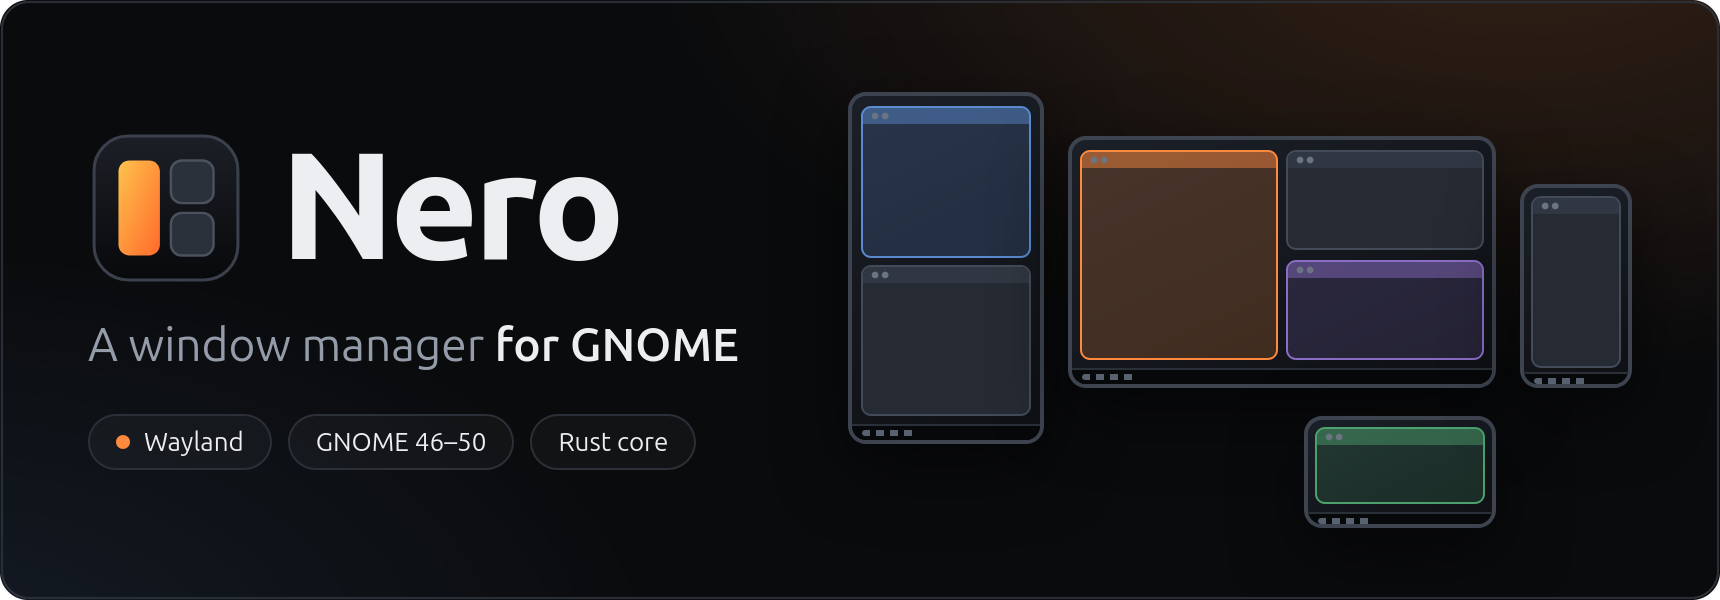
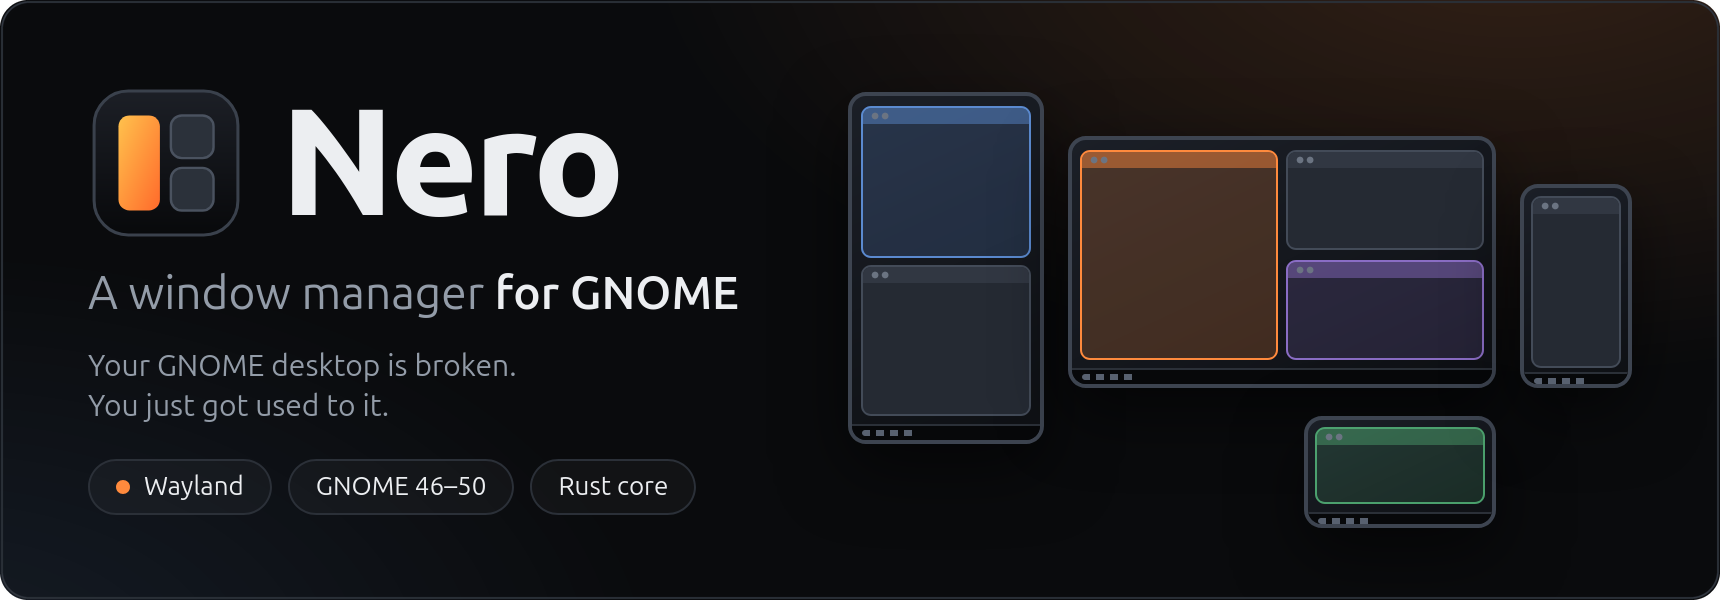
README layout: centred header, badges, link row, folding install blocks
The slides take their wording from the rewritten README. The README text
itself is unchanged; the title line moved into the header.

Changed region(s): [[0.0308, 0.15, 0.4314, 0.63], [0.0616, 0.66, 0.4006, 0.87]]

diff --git a/docs/src/tiling.html b/docs/src/tiling.html
@@ -15,15 +15,15 @@
 </style>
 <div class="slide">
   <div class="head"><img src="logo.svg" alt=""><b>Nero</b><span class="sep">/</span>tilingshell-patch<span class="no">Part 2 of 5</span></div>
-  <h2>Tiling Shell 18.0, <span>patched.</span></h2>
-  <div class="sub">Tile, drag and resize, and every other window stays where it is.</div>
+  <h2>Tiling that behaves <span>like you thought it did.</span></h2>
+  <div class="sub">A patch set for Tiling Shell 18.0. Your other windows are obstacles, not victims.</div>
   <div class="grid">
     <div class="f"><div class="mon"><div class="clip">
         <div class="tile" style="left:3%;top:6%;width:30%;height:80%"></div><div class="tile" style="left:67%;top:6%;width:30%;height:80%"></div>
         <div class="win" style="left:22%;top:20%;width:50%;height:58%"></div>
         <div class="win e" style="left:35%;top:6%;width:30%;height:80%"></div>
         <div class="tb"></div></div></div>
-      <div class="t">Exact placement</div><div class="d">A dropped window gets exactly that tile. Nothing is pushed aside.</div></div>
+      <div class="t">Drop a window, get that tile</div><div class="d">Not a rearrangement. Not a suggestion. That tile.</div></div>
     <div class="f"><div class="mon"><div class="clip">
         <div class="win" style="left:3%;top:6%;width:30%;height:80%"></div>
         <div class="win" style="left:35%;top:6%;width:62%;height:38%"></div>
@@ -39,7 +39,7 @@
         <div class="ar" style="left:31%;top:39%">←</div><div class="ar" style="left:66%;top:39%">→</div>
         <div class="ar" style="left:49.5%;top:8%">↑</div><div class="ar" style="left:49.5%;top:69%">↓</div>
         <div class="tb"></div></div></div>
-      <div class="t">Fill free space</div><div class="d">Grows until it meets other windows or the screen edge.</div></div>
+      <div class="t">Fill free space</div><div class="d">Super + right-click and it grows until it hits something.</div></div>
     <div class="f"><div class="mon"><div class="clip">
         <div class="win b" style="left:3%;top:6%;width:40%;height:80%"></div>
         <div class="win b" style="left:45%;top:6%;width:52%;height:39%"></div>
@@ -47,7 +47,7 @@
         <div class="bar" style="left:43.4%;top:6%;width:3px;height:80%"></div>
         <div class="ar" style="left:39%;top:38%;background:#0e1014;border-radius:9px;padding:1px 5px 3px">↔</div>
         <div class="tb"></div></div></div>
-      <div class="t"><kbd>Ctrl</kbd> Linked resize</div><div class="d">Every window touching that edge resizes with it.</div></div>
+      <div class="t"><kbd>Ctrl</kbd> Linked resize</div><div class="d">Every window touching that edge moves with it.</div></div>
     <div class="f"><div class="mon">
         <div class="ghost" style="left:74%;top:16%;width:38%;height:60%"></div>
         <div class="clip">
@@ -62,6 +62,6 @@
         <div class="bar" style="left:33%;top:55%;width:67%;height:3px"></div>
         <div class="ptr" style="left:60%;top:58%"></div>
         <div class="tb"></div></div></div>
-      <div class="t">Layout editor <kbd>Tab</kbd> <kbd>L</kbd></div><div class="d">Tab to the next monitor. L links one line across columns.</div></div>
+      <div class="t">Layout editor <kbd>Tab</kbd> <kbd>L</kbd></div><div class="d">Tab switches monitors. Finally. L links a line across columns.</div></div>
   </div>
 </div>

diff --git a/docs/src/parts.html b/docs/src/parts.html
@@ -17,24 +17,24 @@
 </style>
 <div class="slide">
   <div class="head"><img src="logo.svg" alt=""><b>Nero</b><span class="sep">/</span>overview</div>
-  <h2>Five parts. <span>One Rust core.</span></h2>
-  <div class="sub">Take one part or all five. Each one installs on its own.</div>
+  <h2>Five pieces. <span>One Rust core.</span></h2>
+  <div class="sub">Use whichever ones annoy you the most. Or all five.</div>
   <div class="row">
     <div class="part"><span class="n">1</span>
       <svg viewBox="0 0 32 32"><rect x="3" y="5" width="26" height="19" rx="3"/><rect x="13" y="10" width="12" height="10" rx="1.5"/><path d="M12 28h8M6 12h4m-2-2 2 2-2 2"/></svg>
-      <div class="t">keep-onscreen</div><div class="d">New windows always fit the monitor they open on.</div></div>
+      <div class="t">keep-onscreen</div><div class="d">Every new window fits its monitor. Period.</div></div>
     <div class="part"><span class="n">2</span>
       <svg viewBox="0 0 32 32"><rect x="3" y="5" width="12" height="22" rx="2.5"/><rect x="18" y="5" width="11" height="9.5" rx="2.5"/><rect x="18" y="17.5" width="11" height="9.5" rx="2.5"/></svg>
-      <div class="t">tilingshell-patch</div><div class="d">Tiling, dragging and resizing for Tiling Shell 18.0.</div></div>
+      <div class="t">tilingshell-patch</div><div class="d">Tiling that behaves like you thought it did.</div></div>
     <div class="part"><span class="n">3</span>
       <svg viewBox="0 0 32 32"><path d="M6 16a10 10 0 1 0 3-7.1"/><path d="M5 5v5h5"/><rect x="12" y="12" width="8" height="8" rx="1.5"/></svg>
-      <div class="t">nero-layout</div><div class="d">Every window back in its place after login.</div></div>
+      <div class="t">nero-layout</div><div class="d">Log back in. Every window is where you left it.</div></div>
     <div class="part"><span class="n">4</span>
       <svg viewBox="0 0 32 32"><rect x="2.5" y="6" width="12" height="14" rx="2.5"/><rect x="17.5" y="6" width="12" height="14" rx="2.5"/><path d="M5.5 25.5h.01M8.5 25.5h.01M11.5 25.5h.01M20.5 25.5h.01M23.5 25.5h.01M26.5 25.5h.01" stroke-width="2.6"/></svg>
-      <div class="t">nero-workspaces</div><div class="d">Each monitor switches workspaces on its own.</div></div>
+      <div class="t">nero-workspaces</div><div class="d">Every monitor gets its own workspaces.</div></div>
     <div class="part"><span class="n">5</span>
       <svg viewBox="0 0 32 32"><rect x="3" y="5" width="26" height="22" rx="3"/><path d="M3 21h26"/><path d="M7 24h.01M11 24h.01M15 24h.01" stroke-width="2.4"/><path d="M21 24h5"/></svg>
-      <div class="t">taskbar</div><div class="d">A bottom taskbar with a system monitor in it.</div></div>
+      <div class="t">taskbar</div><div class="d">A proper taskbar, with a system monitor in it.</div></div>
   </div>
   <div class="wires"><i></i><i></i><i></i><i></i><i></i></div>
   <div class="core">

diff --git a/docs/src/layout.html b/docs/src/layout.html
@@ -14,8 +14,8 @@
 </style>
 <div class="slide">
   <div class="head"><img src="logo.svg" alt=""><b>Nero</b><span class="sep">/</span>nero-layout<span class="no">Part 3 of 5</span></div>
-  <h2>Log in. <span>Everything is back.</span></h2>
-  <div class="sub">Every app window returns to its monitor, spot, workspace and state.</div>
+  <h2>Log back in. <span>Exactly where you left it.</span></h2>
+  <div class="sub">Same monitor, same spot, same workspace, same stacking order.</div>
   <div class="flow">
     <div><div class="scene">
       <div class="mon" style="left:0;top:0;width:74px;height:132px"><div class="clip">
@@ -39,8 +39,8 @@
       </div><div class="cap"><b>After</b> the next login</div></div>
   </div>
   <div class="foot chips" style="justify-content:center;flex-wrap:nowrap">
-    <span class="chip"><i></i>Sizes as a share of the monitor</span>
-    <span class="chip"><i></i>Stacking order restored</span>
+    <span class="chip"><i></i>14 windows, 3 monitors, 0 dragging</span>
+    <span class="chip"><i></i>Survives a crash or a shutdown</span>
     <span class="chip"><i></i>Missing apps started once</span>
   </div>
 </div>

diff --git a/docs/src/workspaces.html b/docs/src/workspaces.html
@@ -17,8 +17,8 @@
 </style>
 <div class="slide">
   <div class="head"><img src="logo.svg" alt=""><b>Nero</b><span class="sep">/</span>nero-workspaces<span class="no">Part 4 of 5</span></div>
-  <h2>Workspaces <span>per monitor.</span></h2>
-  <div class="sub">Scroll on one monitor's panel and only that monitor switches.</div>
+  <h2>Your monitors are independent. <span>Now they act like it.</span></h2>
+  <div class="sub">Scroll on a panel and only that monitor switches.</div>
   <div class="rowm">
     <div class="m still"><div class="mon" style="width:112px;height:196px"><div class="clip">
         <div class="win b" style="left:6%;top:3%;width:88%;height:44%"></div><div class="win" style="left:6%;top:49%;width:88%;height:44%"></div><div class="tb"></div></div></div>
@@ -37,6 +37,6 @@
     <span class="chip"><i></i>Scroll on a panel</span>
     <span class="chip"><i></i>Three-finger swipe</span>
     <span class="chip"><i></i>Workspace keys</span>
-    <span class="chip"><i></i>Alt+Tab switches one monitor</span>
+    <span class="chip"><i></i>Scroll speed setting</span>
   </div>
 </div>

diff --git a/docs/src/keep-onscreen.html b/docs/src/keep-onscreen.html
@@ -8,8 +8,8 @@
 </style>
 <div class="slide">
   <div class="head"><img src="logo.svg" alt=""><b>Nero</b><span class="sep">/</span>keep-onscreen<span class="no">Part 1 of 5</span></div>
-  <h2>No more windows <span>half off the edge.</span></h2>
-  <div class="sub">A new window is shrunk and moved until it fits the monitor it opens on.</div>
+  <h2>Every new window fits. <span>Period.</span></h2>
+  <div class="sub">Measured once on the first frame, nudged if needed, never touched again.</div>
   <div class="pair">
     <div class="side"><span class="chip red">Before</span>
       <div class="mon">
@@ -25,8 +25,8 @@
       </div></div>
   </div>
   <div class="foot chips" style="justify-content:center;flex-wrap:nowrap">
-    <span class="chip"><i></i>Acts once, on the first frame</span>
+    <span class="chip"><i></i>No more half-visible dialogs</span>
     <span class="chip"><i></i>Maximized and full-screen left alone</span>
-    <span class="chip"><i></i>Password prompts on one monitor</span>
+    <span class="chip"><i></i>Password prompts pinned to one monitor</span>
   </div>
 </div>

diff --git a/docs/src/banner.html b/docs/src/banner.html
@@ -4,15 +4,17 @@
   .name { display: flex; align-items: center; gap: 18px; }
   .name img { width: 78px; height: 78px; }
   h1 { font-size: 76px; line-height: 1; font-weight: 800; letter-spacing: -2.5px; }
-  .tag { font-size: 23px; color: var(--muted); margin-top: 14px; }
+  .tag { font-size: 23px; color: var(--muted); margin-top: 10px; }
   .tag b { color: var(--text); font-weight: 600; }
-  .chips { margin-top: 18px; }
+  .chips { margin-top: 16px; }
+  .line { font-size: 15px; color: var(--muted); margin-top: 10px; line-height: 1.35; }
   .scene { position: relative; margin-left: auto; width: 392px; height: 236px; flex: none; }
   .scene .mon { position: absolute; }
 </style>
 <div>
   <div class="name"><img src="logo.svg" alt=""><h1>Nero</h1></div>
   <div class="tag">A window manager <b>for GNOME</b></div>
+  <div class="line">Your GNOME desktop is broken.<br>You just got used to it.</div>
   <div class="chips"><span class="chip"><i></i>Wayland</span><span class="chip">GNOME 46–50</span><span class="chip">Rust core</span></div>
 </div>
 <div class="scene">

diff --git a/docs/src/architecture.html b/docs/src/architecture.html
@@ -15,7 +15,7 @@
 <div class="slide">
   <div class="head"><img src="logo.svg" alt=""><b>Nero</b><span class="sep">/</span>how it works</div>
   <h2>JavaScript asks. <span>Rust decides.</span></h2>
-  <div class="sub">GNOME Shell only lets JavaScript move windows, so the JS stays thin.</div>
+  <div class="sub">GNOME Shell only lets JavaScript touch windows. So the JS is just the glue.</div>
   <div class="flow">
     <div class="box"><div class="k">The desktop</div><div class="t">GNOME Shell</div>
       <div class="d">Sends the signals and owns the windows.</div>
@@ -33,6 +33,6 @@
     <span class="chip"><i></i>Synchronous</span>
     <span class="chip"><i></i>In-process</span>
     <span class="chip"><i></i>No daemon, no D-Bus</span>
-    <span class="chip"><i></i>A Rust panic cannot take the shell down</span>
+    <span class="chip"><i></i>A Rust panic cannot crash your desktop</span>
   </div>
 </div>

diff --git a/docs/src/taskbar.html b/docs/src/taskbar.html
@@ -25,8 +25,8 @@
 </style>
 <div class="slide">
   <div class="head"><img src="logo.svg" alt=""><b>Nero</b><span class="sep">/</span>taskbar<span class="no">Part 5 of 5</span></div>
-  <h2>A taskbar <span>on every monitor.</span></h2>
-  <div class="sub">Dash to Panel and Argos, set up by one command.</div>
+  <h2>A proper taskbar. <span>On every monitor.</span></h2>
+  <div class="sub">Dash to Panel, Argos and a Rust system monitor, set up by one command.</div>
   <div class="wrap">
     <span class="lab l"><b>App grid</b></span>
     <span class="lab c" style="left:136px"><b>One icon per app</b></span>

diff --git a/README.md b/README.md
@@ -2,9 +2,23 @@
   <img src="docs/banner.png" width="860" alt="Nero, a window manager for GNOME: Wayland, GNOME 46 to 50, Rust core">
 </p>
 
-# Nero
+<h3 align="center">Your GNOME desktop is broken. You just got used to it.</h3>
 
-**Your GNOME desktop is broken. You just got used to it.**
+<p align="center">
+  <a href="https://github.com/LudaLunizz/Nero/releases/latest"><img src="https://img.shields.io/github/v/release/LudaLunizz/Nero?color=ff8a3d&label=release" alt="Latest release"></a>
+  <a href="https://github.com/LudaLunizz/Nero/actions/workflows/test.yml"><img src="https://github.com/LudaLunizz/Nero/actions/workflows/test.yml/badge.svg" alt="Tests"></a>
+  <img src="https://img.shields.io/badge/GNOME-46%E2%80%9350-6ea8fe" alt="GNOME 46 to 50">
+  <img src="https://img.shields.io/badge/core-Rust%20%E2%86%92%20wasm-ff8a3d" alt="Rust core, built to WebAssembly">
+  <a href="#license"><img src="https://img.shields.io/badge/license-MIT-5fd08a" alt="MIT license"></a>
+</p>
+
+<p align="center">
+  <a href="#whats-in-the-box"><b>What's in the box</b></a> ·
+  <a href="#the-rust-thing"><b>The Rust thing</b></a> ·
+  <a href="#get-started"><b>Get started</b></a> ·
+  <a href="#settings"><b>Settings</b></a> ·
+  <a href="#license"><b>License</b></a>
+</p>
 
 Windows open half off-screen. You tile something and the rest of your layout
 explodes. You reboot and spend two minutes dragging everything back where it was.
@@ -129,7 +143,8 @@ rustup target add wasm32-unknown-unknown
 
 Then pick your parts:
 
-### keep-onscreen
+<details>
+<summary><b>keep-onscreen</b></summary>
 
 ```sh
 ./core/build.sh
@@ -139,7 +154,10 @@ glib-compile-schemas ~/.local/share/gnome-shell/extensions/nero-keep-onscreen@Lu
 gnome-extensions enable nero-keep-onscreen@LudaLunizz
 ```
 
-### Tiling Shell patch
+</details>
+
+<details>
+<summary><b>Tiling Shell patch</b></summary>
 
 ```sh
 ./tilingshell-patch/apply.sh              # downloads Tiling Shell 18.0, patches it
@@ -151,7 +169,10 @@ gnome-extensions enable nero-keep-onscreen@LudaLunizz
 An update from extensions.gnome.org overwrites the patch — run `apply.sh --install`
 again.
 
-### nero-layout
+</details>
+
+<details>
+<summary><b>nero-layout</b></summary>
 
 ```sh
 ./core/build.sh
@@ -164,7 +185,10 @@ gnome-extensions enable nero-layout@LudaLunizz
 Layout saves to `~/.local/state/nero/layout.json` every minute. Set `restore-now`
 to `true` to restore without logging out.
 
-### nero-workspaces
+</details>
+
+<details>
+<summary><b>nero-workspaces</b></summary>
 
 ```sh
 ./core/build.sh
@@ -174,7 +198,10 @@ glib-compile-schemas ~/.local/share/gnome-shell/extensions/nero-workspaces@LudaL
 gnome-extensions enable nero-workspaces@LudaLunizz
 ```
 
-### taskbar
+</details>
+
+<details>
+<summary><b>taskbar</b></summary>
 
 Install [Dash to Panel](https://extensions.gnome.org/extension/1160/dash-to-panel/)
 and [Argos](https://extensions.gnome.org/extension/1176/argos/) from
@@ -186,6 +213,8 @@ nero taskbar setup                        # taskbar at the bottom + system monit
 nero taskbar setup --monitor DP-1         # same, Argos buttons on DP-1
 nero taskbar undo                         # restore your previous Dash to Panel settings
 ```
+
+</details>
 
 ---
 
